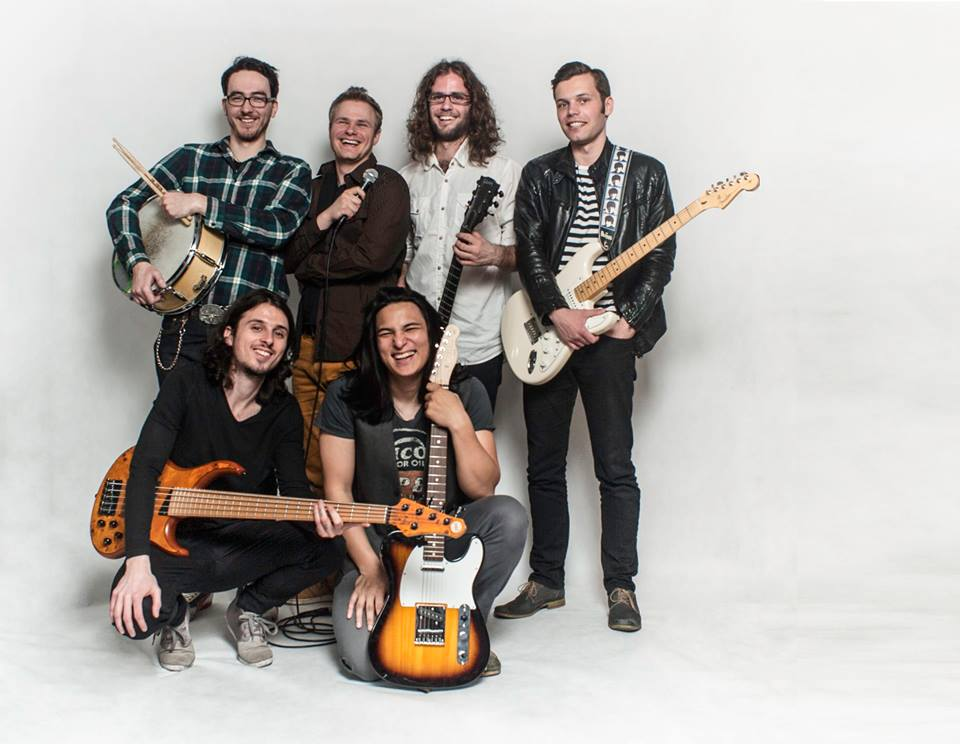
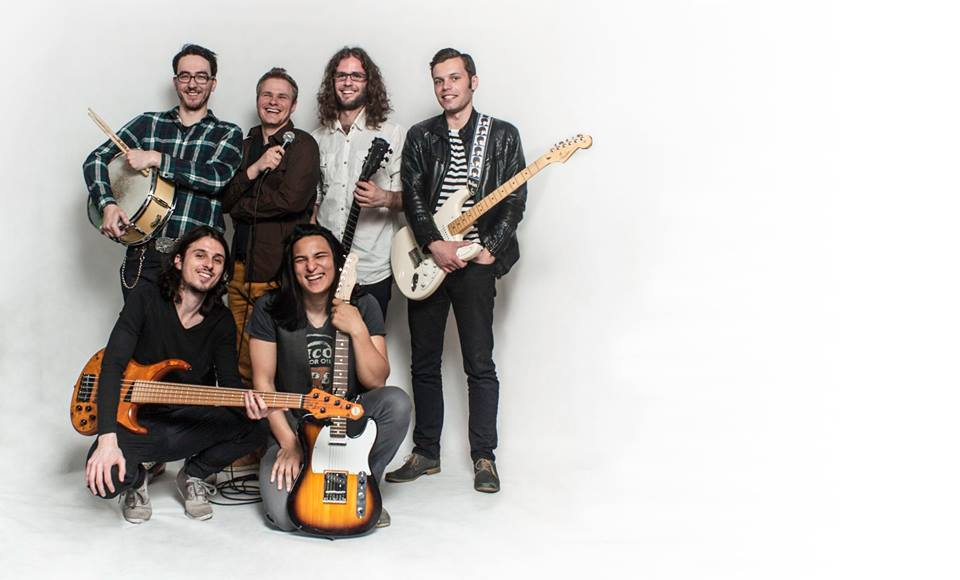
small modifications for the placement of the text, new background

diff --git a/index.html b/index.html
@@ -5,7 +5,7 @@
     <title></title>
     <style>
       html { 
-        background: url(images/b1.jpg) no-repeat center top fixed; 
+        background: url(images/b1.jpg) no-repeat left top fixed; 
         -webkit-background-size: cover;
         -moz-background-size: cover;
         -o-background-size: cover;
@@ -22,7 +22,7 @@
         padding: 15px;
         width: 650px;
         float: right;
-        margin: 6% 9% 0 0;
+        margin: 6% 1% 0 0;
       }
 
       .textbox .first {
